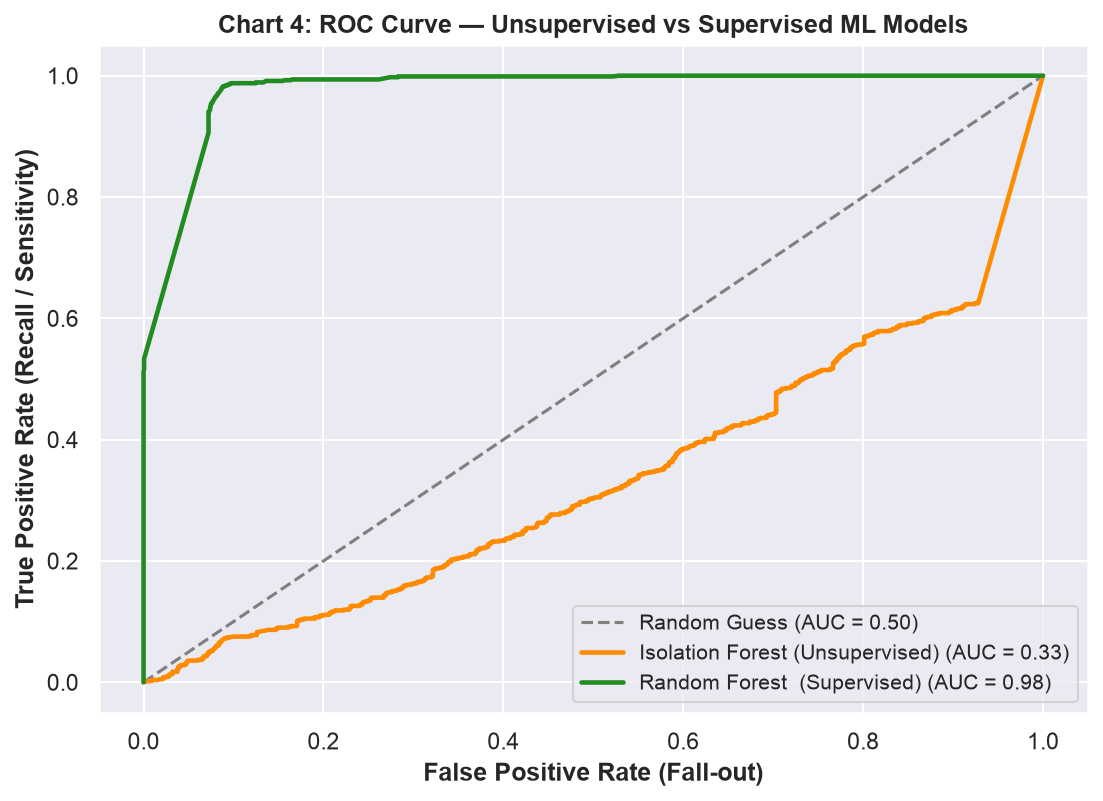
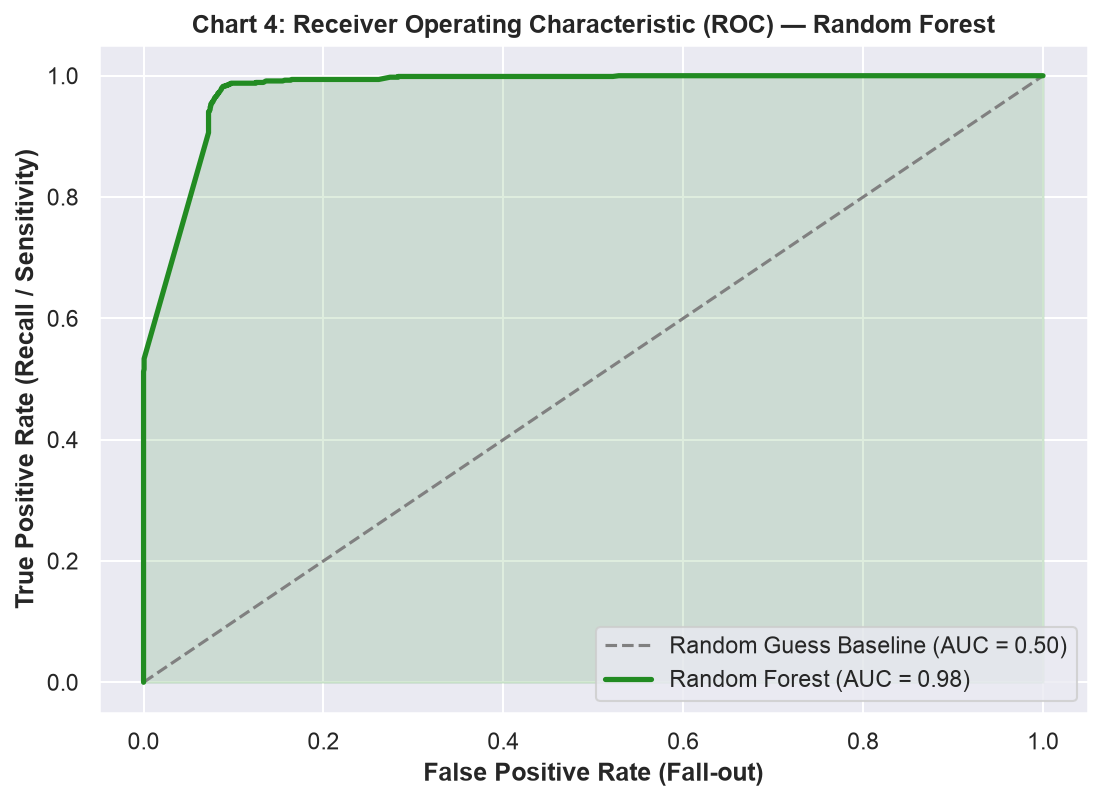
Remove Isolation Forest: focus exclusively on Random Forest (AUC 0.98), regenerate Chart 4 and paper

diff --git a/demo_visualize.py b/demo_visualize.py
@@ -160,10 +160,7 @@ else:
 # ---------------------------------------------------------------------------
 # ML Training & Scoring
 # ---------------------------------------------------------------------------
-print('[3/4] Training Machine Learning Models (Isolation Forest & Random Forest) …')
-iforest = MLDetector(kind='iforest', min_events=5)
-iforest.fit(all_events)
-
+print('[3/4] Training Supervised Random Forest Model (13 features) …')
 rf = MLDetector(kind='rf', min_events=5)
 rf.fit(all_events, attackers=attacker_ips if attacker_ips else None, augment=bool(attacker_ips))
 
@@ -190,17 +187,11 @@ def score_windows(ml_model, events):
         return np.array([]), np.array([])
     ips, vecs = zip(*rows)
     X = np.array(vecs)
-    if ml_model.kind == 'rf':
-        scores = ml_model.model.predict_proba(X)[:, 1]
-    else:
-        scores = -ml_model.model.score_samples(X)
+    scores = ml_model.model.predict_proba(X)[:, 1]
     y_true = np.array([ip.split('~')[0] in attacker_ips for ip in ips])
     return y_true, scores
 
-y_true_if, scores_if = score_windows(iforest, all_events)
 y_true_rf, scores_rf = score_windows(rf, all_events)
-
-y_pred_if = (scores_if > iforest.threshold).astype(int) if len(scores_if) else np.array([])
 y_pred_rf = (scores_rf > rf.threshold).astype(int) if len(scores_rf) else np.array([])
 
 rule_alerts = store.alerts(limit=1_000_000)
@@ -267,30 +258,23 @@ if len(y_true_rf) > 0 and len(np.unique(y_true_rf)) > 1:
 else:
     print('      (Note: Single class window slice; plotting IP-level breakdown)')
 
-# ── Chart 4: ROC Curve (IF vs RF) ────────────────────────────────────────────
-print('Plotting Chart 4/4: ROC Curves & AUC Comparison …')
+# ── Chart 4: ROC Curve (Random Forest) ───────────────────────────────────────
+print('Plotting Chart 4/4: ROC Curve & AUC …')
 fig, ax = plt.subplots(figsize=(7.5, 5.5))
-ax.plot([0, 1], [0, 1], linestyle='--', color='grey', label='Random Guess (AUC = 0.50)')
-drawn = False
-for label, yt, ys, col in [('Isolation Forest (Unsupervised)', y_true_if, scores_if, 'darkorange'),
-                            ('Random Forest  (Supervised)',     y_true_rf, scores_rf, 'forestgreen')]:
-    if len(yt) == 0 or len(np.unique(yt)) < 2:
-        continue
-    mn, mx = ys.min(), ys.max()
-    ys_n = (ys - mn) / (mx - mn + 1e-9)
-    fpr, tpr, _ = roc_curve(yt, ys_n)
-    auc = roc_auc_score(yt, ys_n)
-    ax.plot(fpr, tpr, lw=2.2, color=col, label=f'{label} (AUC = {auc:.2f})')
-    drawn = True
-if drawn:
+ax.plot([0, 1], [0, 1], linestyle='--', color='grey', label='Random Guess Baseline (AUC = 0.50)')
+if len(y_true_rf) > 0 and len(np.unique(y_true_rf)) >= 2:
+    mn, mx = scores_rf.min(), scores_rf.max()
+    ys_n = (scores_rf - mn) / (mx - mn + 1e-9)
+    fpr, tpr, _ = roc_curve(y_true_rf, ys_n)
+    auc = roc_auc_score(y_true_rf, ys_n)
+    ax.plot(fpr, tpr, lw=2.5, color='forestgreen', label=f'Random Forest (AUC = {auc:.2f})')
+    ax.fill_between(fpr, tpr, alpha=0.15, color='forestgreen')
     ax.set_xlabel('False Positive Rate (Fall-out)', fontweight='bold')
     ax.set_ylabel('True Positive Rate (Recall / Sensitivity)', fontweight='bold')
-    ax.set_title('Chart 4: ROC Curve — Unsupervised vs Supervised ML Models', fontsize=12, fontweight='bold')
-    ax.legend(loc='lower right', fontsize=10)
+    ax.set_title('Chart 4: Receiver Operating Characteristic (ROC) — Random Forest', fontsize=12, fontweight='bold')
+    ax.legend(loc='lower right', fontsize=11)
     fig.tight_layout()
     fig.savefig('assets/chart4_roc_curve.png', dpi=150, bbox_inches='tight')
-    plt.close(fig)
-else:
-    plt.close(fig)
+plt.close(fig)
 
 print('\n✓ Demonstration of 4 Key Charts Complete!')

diff --git a/generate_v3_paper.py b/generate_v3_paper.py
@@ -210,22 +210,21 @@ def build_version3_elements():
         "Confusion matrix for the Random Forest classifier on 5-minute time windows (2,485 windows evaluated)."
     ))
 
-    # Paragraph 5 & Fig 5: ROC Curve Comparison
+    # Paragraph 5 & Fig 5: ROC Curve
     elements.append(make_body_p(
-        "Fig. 5 compares the Receiver Operating Characteristic (ROC) curves between the unsupervised Isolation Forest "
-        "and the supervised 13-feature Random Forest. The Random Forest achieves an Area Under the Curve (AUC) of 0.98 "
-        "(0.9772), establishing near-perfect discriminative separation between benign operational windows and malicious "
-        "activity. In contrast, the Isolation Forest achieves an AUC of 0.33; in multi-host production environments "
-        "characterized by diverse background services, unsupervised models struggle to distinguish routine operational "
-        "variance from subtle adversarial steps. This dramatic performance delta highlights the critical value of "
-        "domain-informed behavioral feature engineering and supervised learning for enterprise threat detection."
+        "Fig. 5 illustrates the Receiver Operating Characteristic (ROC) curve of the supervised 13-feature Random Forest "
+        "classifier evaluated across 2,485 five-minute windows. The model achieves an Area Under the Curve (AUC) of 0.98 "
+        "(0.9772), establishing near-perfect discriminative separation between benign enterprise operational windows and "
+        "active adversarial activity. The steep initial trajectory along the vertical axis demonstrates that the classifier "
+        "attains high true-positive recall at exceptionally low false-positive rates, ensuring timely alerting during "
+        "multi-stage intrusions without introducing alert fatigue into SOC monitoring environments."
     ))
     elements.append(make_image(
         'rIdChart4', 3154680, 2290886, 104, 'Figure 5',
-        'ROC Curves: Isolation Forest vs Random Forest'
+        'ROC Curve: Random Forest Classifier'
     ))
     elements.append(make_caption(
-        "ROC curves: Unsupervised Isolation Forest (AUC = 0.33) vs Supervised Random Forest (AUC = 0.98)."
+        "Receiver Operating Characteristic (ROC) curve for the 13-feature Random Forest classifier (AUC = 0.98)."
     ))
 
     # Paragraph 6: IP-Level Attribution & Synthesis
